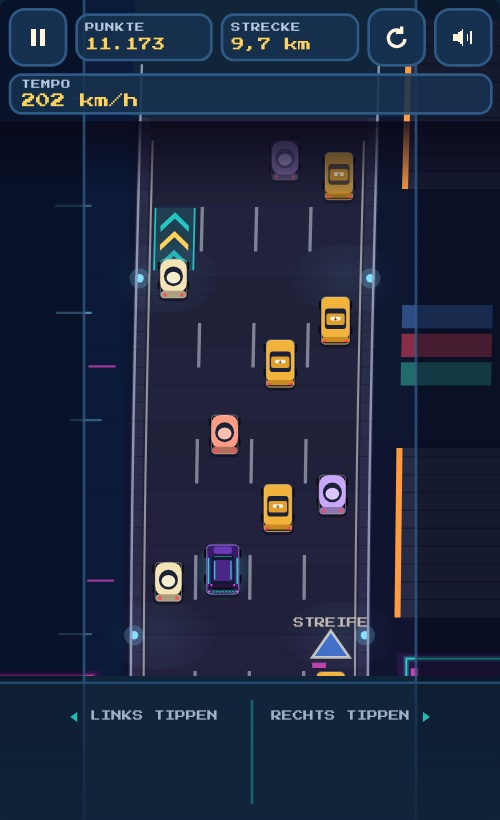
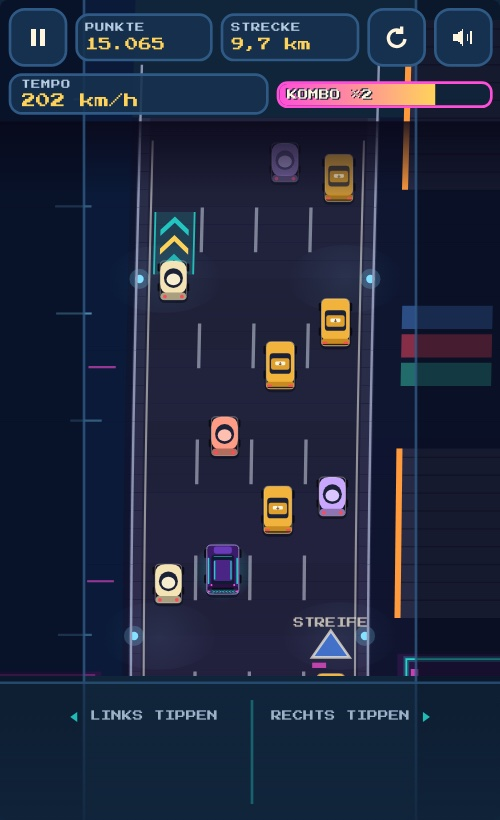
Nachtschicht: Kombo, Rekordlinie, Aufgaben und Garage in Text und Bildern

diff --git a/index.html b/index.html
@@ -696,8 +696,8 @@ const SPIELE = [
 
   {
     titel: 'NACHTSCHICHT: HAFENFLUCHT',
-    beschreibung: 'Ein Endlos-Racer in der Neon-Draufsicht: Fahr durch eine erfundene 80er-Küstenmetropole, so weit du kommst. Ein Tipp links oder rechts, und du bist eine Spur weiter – aber berührst du ein anderes Auto, ist die Fahrt vorbei. Mit jedem Kilometer wird es schneller und voller. Boostfelder, Überholserien und eigene Synthwave-Musik.',
-    merkmale: ['Endlos', 'Ein Kontakt = Ende', 'Immer schneller', 'Boostfelder', 'Eigene 80er-Musik', 'Freunde-Rangliste'],
+    beschreibung: 'Ein Endlos-Racer in der Neon-Draufsicht: Ein Tipp links oder rechts, und du bist eine Spur weiter – berührst du ein anderes Auto, ist die Fahrt vorbei. Knappe Manöver bauen eine Kombo bis ×8 auf, eine Neonlinie zeigt deinen Rekord, Aufgaben bringen Sterne für neue Lackierungen in der Garage. Mit jedem Kilometer wird es schneller und voller – nur noch eine Runde!',
+    merkmale: ['Endlos', 'Kombo bis ×8', 'Aufgaben & Sterne', '6 Lackierungen', 'Immer schneller', 'Eigene 80er-Musik', 'Freunde-Rangliste'],
     steuerung: 'Handy: links oder rechts tippen = eine Spur wechseln (freies Ziehen wählbar). Computer: Pfeiltasten oder A und D (ein Druck = eine Spur), Mausklick links oder rechts, P für Pause, M für Ton.',
     spielen: 'https://moje9328.github.io/nachtschicht/',
     download: 'https://moje9328.github.io/nachtschicht/index.html',
